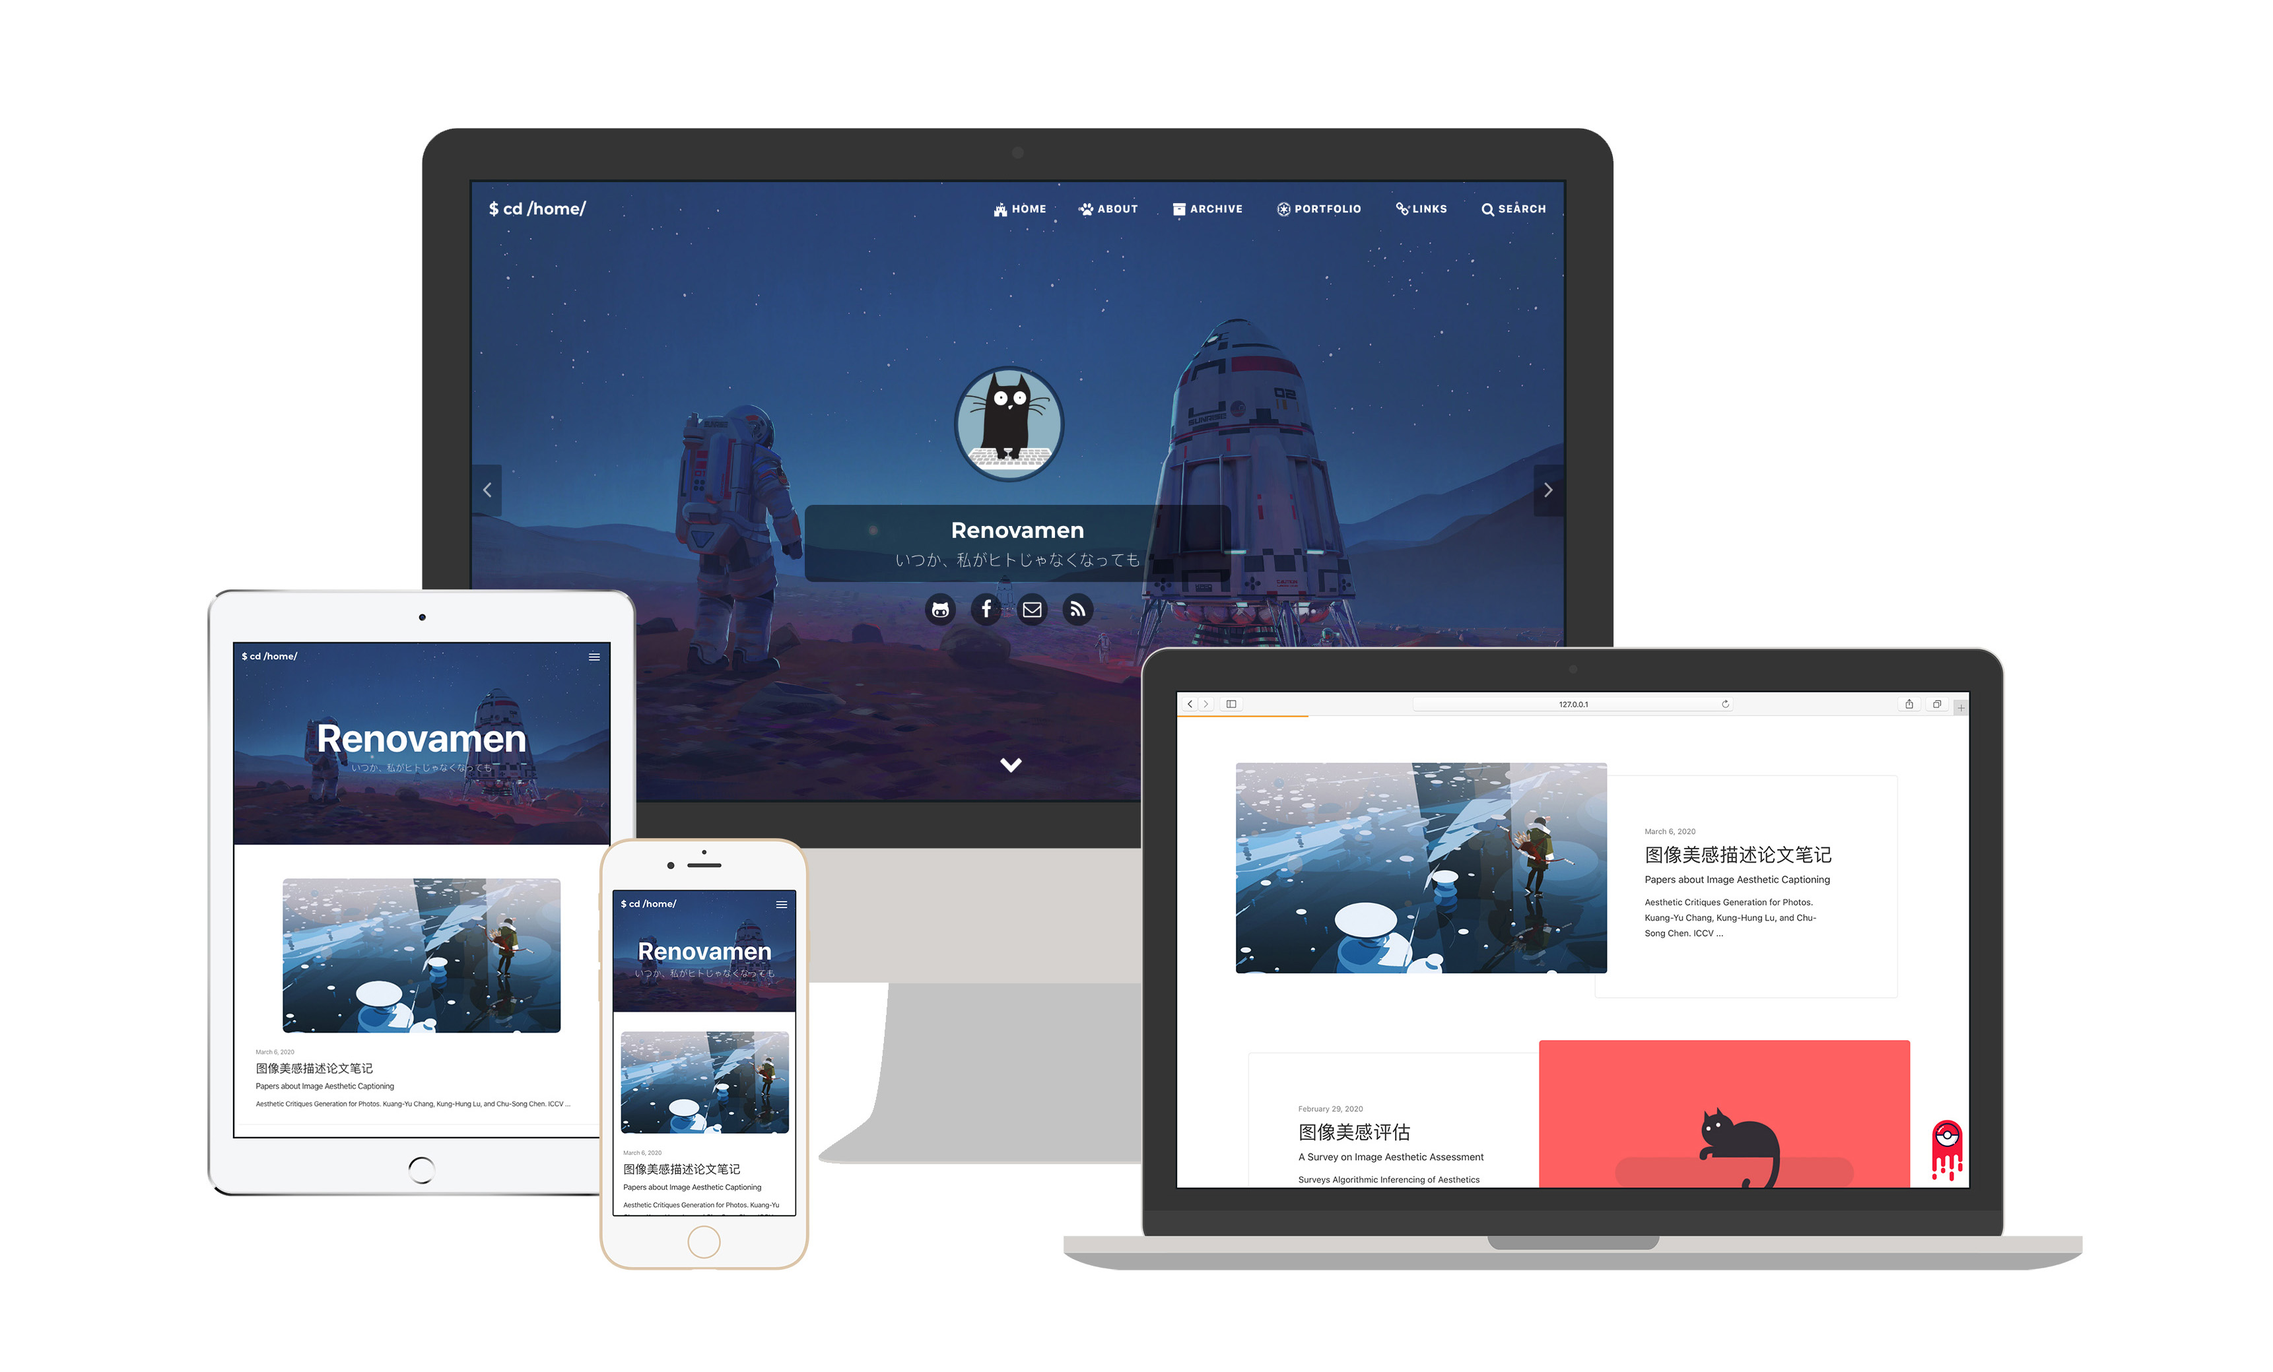
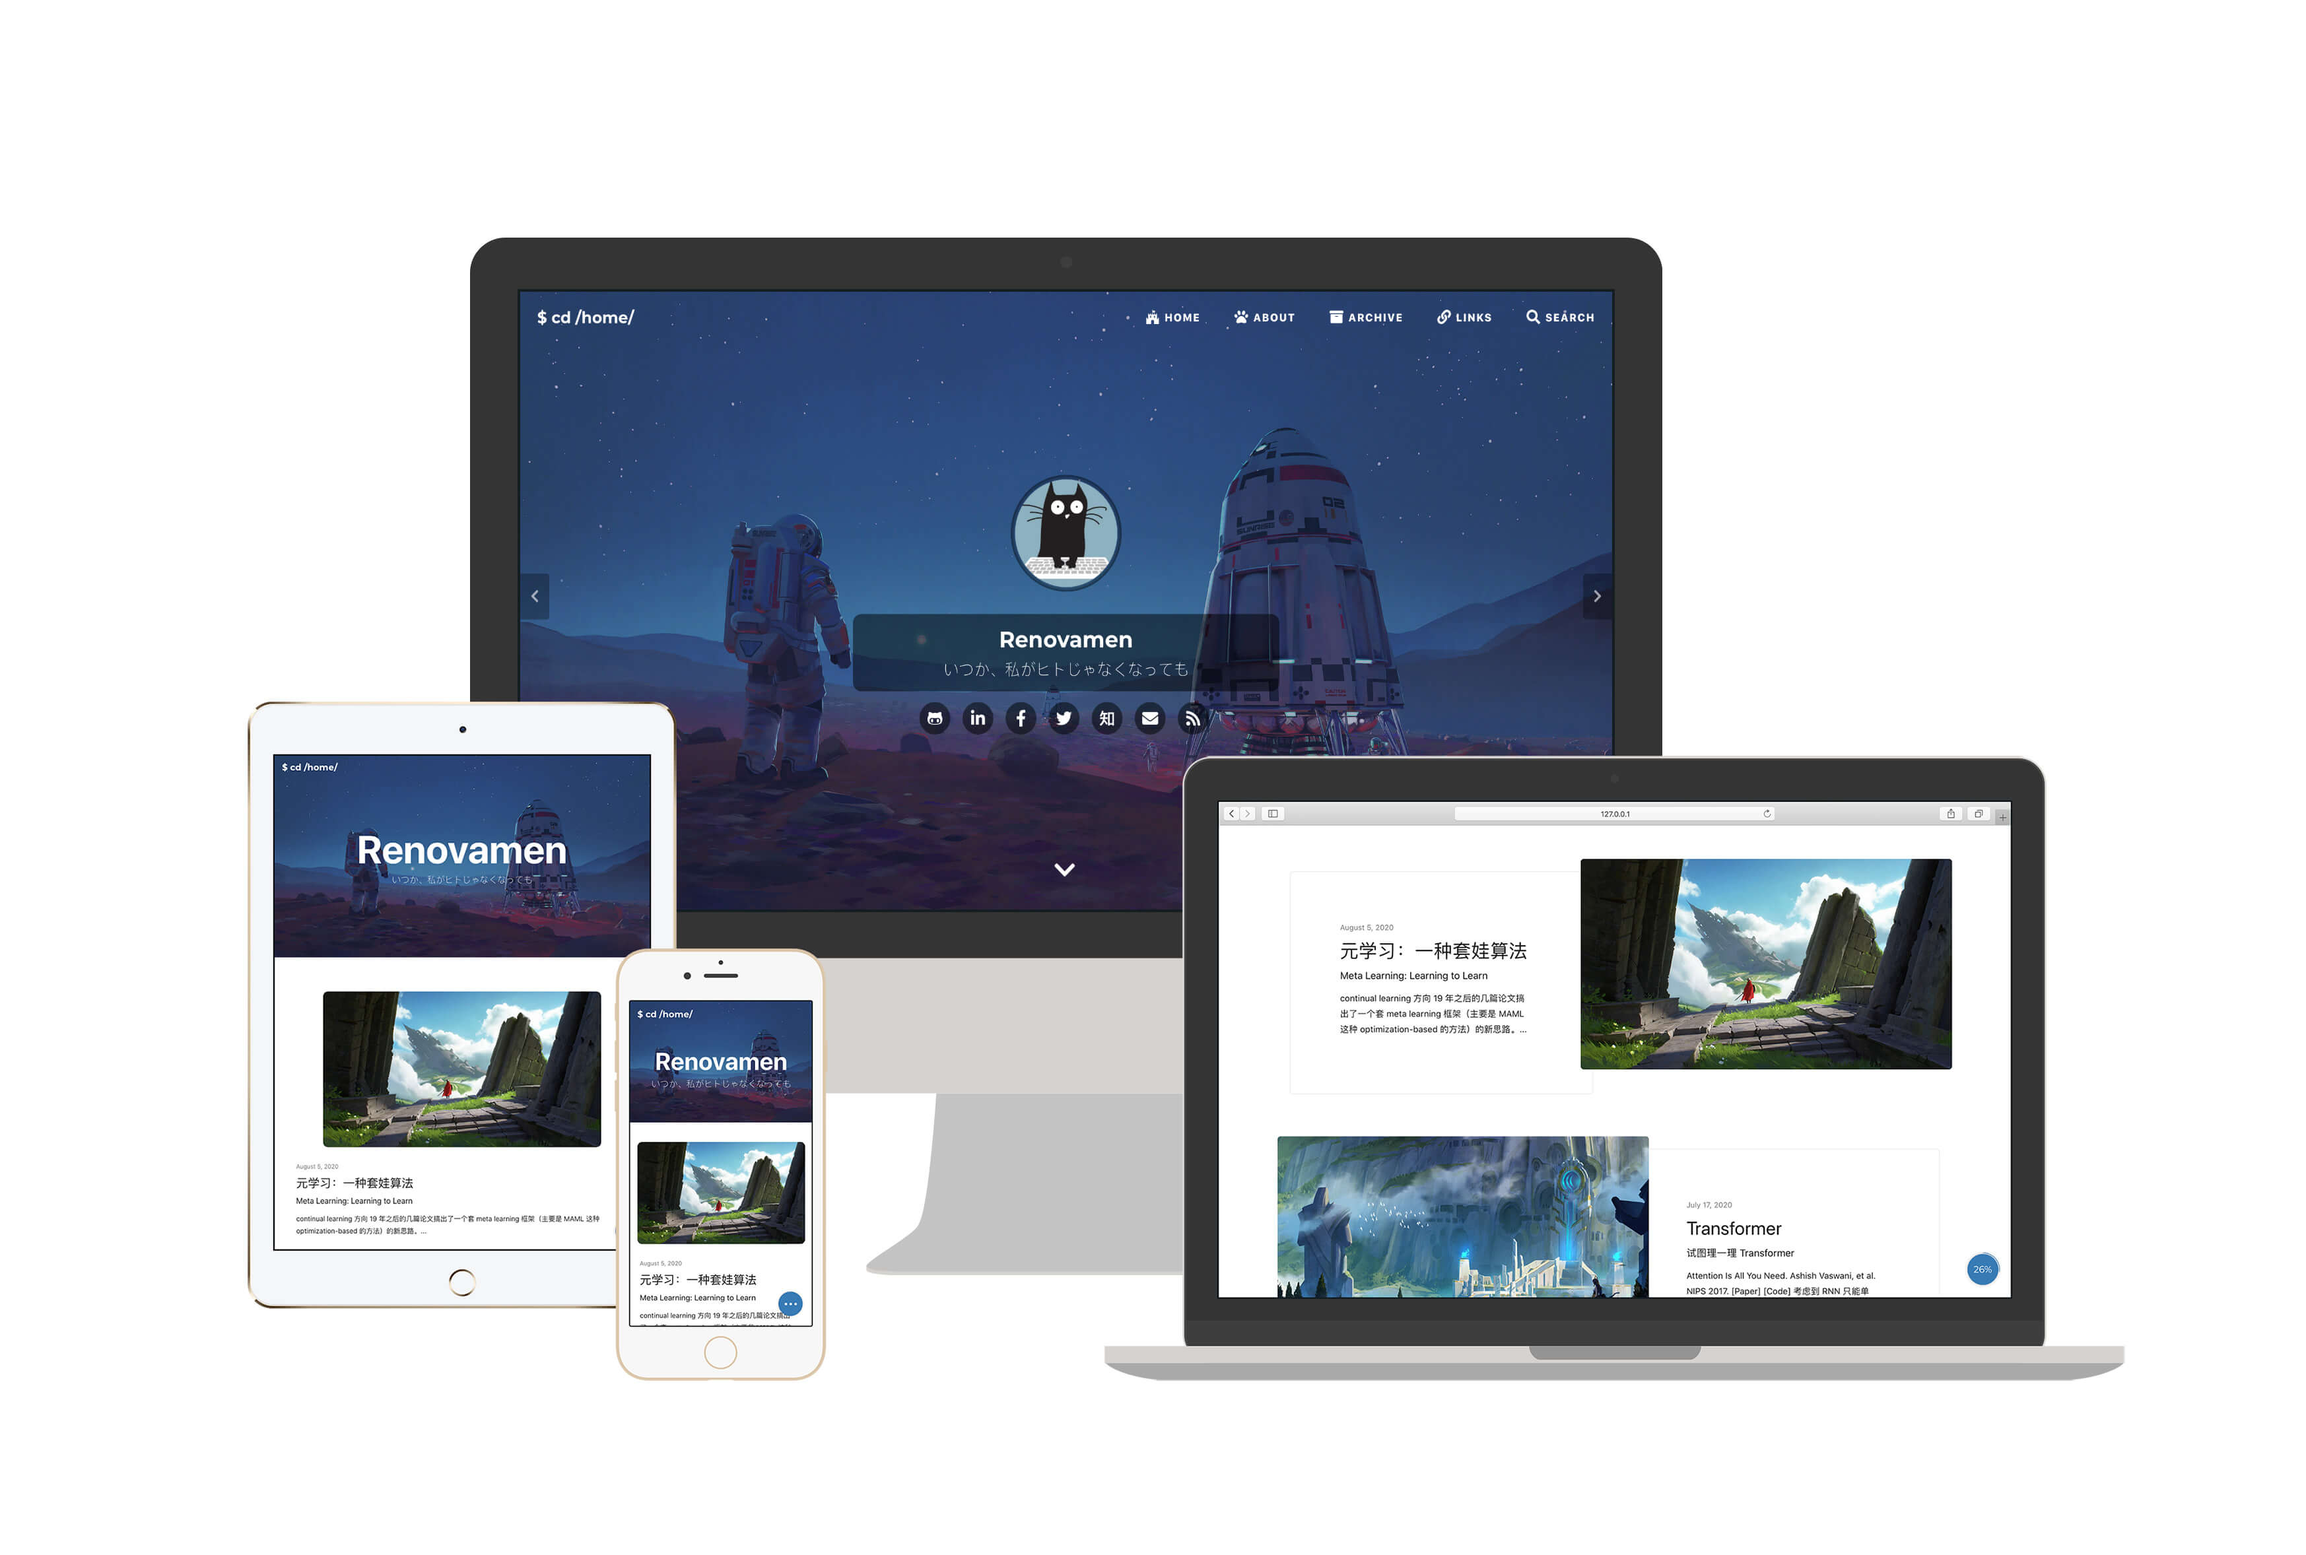
docs: update theme image

Changed region(s): [[0.0932, 0.0924, 0.9323, 0.9235], [0.4351, 0.5541, 0.4662, 0.5849]]

diff --git a/README.md b/README.md
@@ -6,7 +6,7 @@ My blog. Also a theme for Jekyll. It is derived from [Huxpro/huxpro.github.io](h
 
 [中文说明](README-CN.md) | English Intro
 
-![preview](docs/preview.jpg)
+![preview](img/docs/gungnir.jpg)
 
 &nbsp;
 

diff --git a/README-CN.md b/README-CN.md
@@ -6,7 +6,7 @@
 
 中文说明 | [English Intro](README.md)
 
-![preview](docs/preview.jpg)
+![preview](img/docs/gungnir.jpg)
 
 &nbsp;
 
